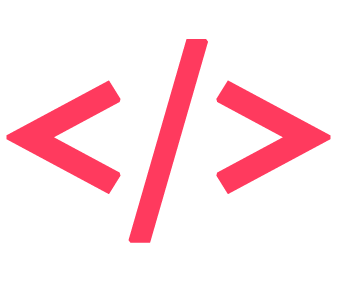
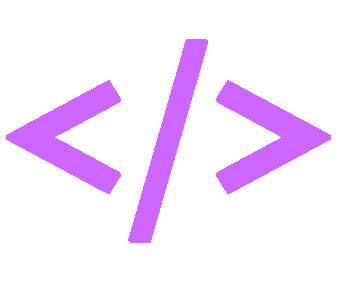
To purple

Changed region(s): [[0.6158, 0.2656, 0.9677, 0.6492], [0.3519, 0.118, 0.6158, 0.7967], [0.0, 0.2656, 0.3519, 0.6492]]

diff --git a/assets/css/style.css b/assets/css/style.css
@@ -1,1 +1,1 @@
-*{padding:0;margin:0;box-sizing:border-box;font-family:"Archivo"}::selection{background-color:#ff3a5e;color:#fff}ul,ol{list-style:none;margin:0;padding:0}a{text-decoration:none}img{max-width:100%;height:auto;display:block}p,h1,h2,h3,h4,h5,h6{margin:0}button,input{border:0;font-family:"Archivo"}button:focus,input:focus{border:0}body{font-family:"Archivo";background-color:#fff;overflow-x:hidden}html{scroll-behavior:smooth;font-size:62.5%}::-webkit-scrollbar{width:8px}::-webkit-scrollbar-track{background-color:#040405}::-webkit-scrollbar-thumb{background-color:#ff3a5e;border-radius:8px}header{padding:0px 50px;background:#040405;backdrop-filter:blur(24px);-webkit-backdrop-filter:blur(24px);border-bottom:1px solid #101013;z-index:999;width:100%;position:fixed;top:0;left:0}@media screen and (max-width: 992px){header{padding:0px 24px}}header .grid-layout nav{display:flex;justify-content:space-between;align-items:center;flex-wrap:wrap;height:100px;padding:0px 8px}header .grid-layout nav img{width:150px}header .grid-layout nav .nav-list{list-style:none;display:flex}header .grid-layout nav .nav-list li{margin-left:48px}@media screen and (max-width: 992px){header .grid-layout nav .nav-list li{margin-left:0px}}header .grid-layout nav .nav-list li a{color:#d8d8d8;position:relative;font-size:1.8rem}header .grid-layout nav .nav-list li a::after{content:"";position:absolute;width:100%;transform:scaleX(0);height:1px;bottom:-7px;left:0;background:linear-gradient(270deg, #ff3a5e 0%, #17161d 100%);transform-origin:bottom right;transition:transform .5s cubic-bezier(0.86, 0, 0.07, 1)}header .grid-layout nav .nav-list li a:hover::after{transform:scaleX(1);transform-origin:bottom left}header .grid-layout nav .nav-list li a:hover{color:#fff}.mobile-menu{display:none}.mobile-menu div{width:32px;height:1px;background-color:#fff;margin:8px;transition:.4s}.nav-list.active{visibility:initial;transition:1s all ease}@keyframes navLinkFade{from{opacity:0;transform:translateX(100px)}to{opacity:1;transform:translateX(0)}}.mobile-menu.active .line1{transform:rotate(-45deg) translate(-8px, 8px)}.mobile-menu.active .line2{opacity:0}.mobile-menu.active .line3{transform:rotate(45deg) translate(-5px, -5px)}@media screen and (max-width: 992px){body{overflow-x:hidden}.nav-list{text-align:center;position:absolute;top:100px;right:0;width:100vw;height:100vh;z-index:999;background-color:#09090b;flex-direction:column;padding-top:96px;visibility:hidden}header .grid-layout nav .nav-list li{opacity:0;margin-bottom:48px}header .grid-layout nav .nav-list li a{font-size:2.4rem}.mobile-menu{display:block}}#s-home{padding:0px 50px;background-color:#040405;position:relative}@media screen and (max-width: 992px){#s-home{padding:100px 20px 0px 20px}}#s-home .grid-layout #home{display:flex;align-items:center;min-height:90vh;padding:200px 0px;overflow:hidden;width:100%}@media screen and (max-width: 992px){#s-home .grid-layout #home{padding:0px}}#s-home .grid-layout #home #home-container-text{width:100%;flex-direction:column}@media screen and (max-width: 992px){#s-home .grid-layout #home #home-container-text{display:flex;flex-direction:column;align-items:center;width:100%;text-align:center;padding:0px}}#s-home .grid-layout #home #home-container-text h1{color:#fff;max-width:650px;line-height:140%;font-size:4rem;font-weight:500}@media screen and (max-width: 992px){#s-home .grid-layout #home #home-container-text h1{font-size:3.2rem}}#s-home .grid-layout #home #home-container-text h1 span{color:#ff3a5e}#s-home .grid-layout #home #home-container-text p{color:#d8d8d8;font-size:2rem;max-width:600px;margin:40px 0px;font-weight:300;line-height:160%}#s-home .grid-layout #home #home-container-text a{background:#ff3a5e;color:#fff;backdrop-filter:blur(10px);padding:20px 32px;max-width:250px;border-radius:4px;display:flex;justify-content:center;align-items:center;transition:all .4s ease;margin-top:30px;font-size:18px;font-weight:400}#s-home .grid-layout #home #home-container-text a:hover{padding:20px 45px;max-width:270px}#s-home .grid-layout #home #logo{position:absolute;right:-50px;top:50%;transform:translate(0%, -50%)}@media screen and (max-width: 1200px){#s-home .grid-layout #home #logo{display:none}}#s-about{padding:72px 0px;background-color:#040405}@media screen and (max-width: 1200px){#s-about{padding:72px 20px}}#s-about .grid-layout>div{background-color:#09090b;border:2px solid #101013;padding:24px;border-radius:4px;display:flex;justify-content:space-between;align-items:center;height:auto}@media screen and (max-width: 1200px){#s-about .grid-layout>div{flex-wrap:wrap;gap:32px}}#s-about .grid-layout>div #creator-photo{width:47%;background-image:url("../image/foto-Daanrox.jpg");background-repeat:no-repeat;background-position:center;background-size:cover;border-radius:4px;height:500px}@media screen and (max-width: 1200px){#s-about .grid-layout>div #creator-photo{width:100%;height:400px}}@media screen and (max-width: 992px){#s-about .grid-layout>div #creator-photo{height:350px}}@media screen and (max-width: 768px){#s-about .grid-layout>div #creator-photo{height:300px}}#s-about .grid-layout>div #creator-photo h3{color:#040405;background-color:#fff;padding:8px;border-radius:16px;width:180px;text-align:center;font-size:1.4rem;font-weight:500;margin:16px}#s-about .grid-layout>div div:nth-child(2){width:49%}@media screen and (max-width: 1200px){#s-about .grid-layout>div div:nth-child(2){width:100%}}#s-about .grid-layout>div div:nth-child(2) h2{font-size:4rem;font-weight:500;margin:16px 0px;color:#fff}@media screen and (max-width: 992px){#s-about .grid-layout>div div:nth-child(2) h2{font-size:3.2rem}}#s-about .grid-layout>div div:nth-child(2) h3{font-size:1.8rem;font-weight:300;margin-bottom:16px;color:#fff}#s-about .grid-layout>div div:nth-child(2) h4{font-size:2rem;font-weight:500;color:#ff3a5e}#s-about .grid-layout>div div:nth-child(2) p{font-size:1.8rem;color:#d8d8d8;line-height:160%;margin:32px 0px 48px 0px}#s-about .grid-layout>div div:nth-child(2) nav ul{display:flex;align-items:center;gap:16px}@media screen and (max-width: 1200px){#s-about .grid-layout>div div:nth-child(2) nav ul{flex-wrap:wrap}}#s-about .grid-layout>div div:nth-child(2) nav ul a{background-color:#040405;border:2px solid #101013;border-radius:6px;padding:16px}@media screen and (max-width: 1200px){#s-about .grid-layout>div div:nth-child(2) nav ul a img{width:40px}}#s-about .grid-layout>div div:nth-child(2) nav ul a:hover{border-color:#ff3a5e}#s-experience{background-color:#09090b;color:#fff;padding:96px 48px}@media screen and (max-width: 992px){#s-experience{padding:48px 24px}}#s-experience .grid-layout h2{padding-bottom:24px;color:#fff;font-size:4rem;font-weight:500}#s-experience .grid-layout h2 span{color:#ff3a5e}#s-experience .grid-layout #experience{margin-top:32px;display:flex;gap:40px}@media screen and (max-width: 1200px){#s-experience .grid-layout #experience{flex-wrap:wrap}}#s-experience .grid-layout #experience .option-experience{display:flex;width:25%;flex-direction:column}@media screen and (max-width: 1200px){#s-experience .grid-layout #experience .option-experience{width:100%}}#s-experience .grid-layout #experience .option-experience .activeExperience{border-left:4px solid #ff3a5e;color:#ff3a5e}#s-experience .grid-layout #experience .option-experience .activeExperience h3{font-weight:600}#s-experience .grid-layout #experience .option-experience>div{padding:24px 32px;text-align:left;background-color:#040405;border-left:4px solid #040405}#s-experience .grid-layout #experience .option-experience>div:hover{cursor:pointer}#s-experience .grid-layout #experience .option-experience>div h3{font-size:1.8rem;font-weight:400}#s-experience .grid-layout #experience .text-experience{width:75%}@media screen and (max-width: 1200px){#s-experience .grid-layout #experience .text-experience{width:100%}}#s-experience .grid-layout #experience .text-experience>div{display:flex;align-items:center;justify-content:space-between}@media screen and (max-width: 1200px){#s-experience .grid-layout #experience .text-experience>div{flex-wrap:wrap;gap:32px}}#s-experience .grid-layout #experience .text-experience>div h4{font-size:2.4rem;font-weight:400}#s-experience .grid-layout #experience .text-experience>div p{font-size:1.8rem;color:#d8d8d8}#s-experience .grid-layout #experience .text-experience h5{font-size:2rem;margin:32px 0px;font-weight:500;color:#ff3a5e}#s-experience .grid-layout #experience .text-experience p{font-size:2rem;line-height:160%;color:#d8d8d8;font-weight:400}#s-projects{padding:96px 48px;text-align:center;background-color:#040405}@media screen and (max-width: 992px){#s-projects{padding:48px 24px}}#s-projects .grid-layout h2{padding-bottom:24px;color:#fff;font-size:4rem;font-weight:500}#s-projects .grid-layout h2 span{color:#ff3a5e}#s-projects .grid-layout #projects{margin:24px 0px;display:flex;justify-content:space-between;align-items:center;flex-wrap:wrap;text-align:left}#s-projects .grid-layout #projects .teslabank{border:1px solid #ff3a5e}#s-projects .grid-layout #projects .teslabank:hover{border:1px solid #ff3a5e}#s-projects .grid-layout #projects .naped{border:1px solid #00a3ff}#s-projects .grid-layout #projects .naped:hover{border:1px solid #00a3ff}#s-projects .grid-layout #projects .efront{border:1px solid #a6fb98}#s-projects .grid-layout #projects .efront:hover{border:1px solid #a6fb98}#s-projects .grid-layout #projects>article{background-color:#09090b;height:auto;padding:32px;margin:8px;flex-basis:calc(33% - 20px);flex-grow:1;border:1px solid #040405;transition:1s all ease;height:auto}#s-projects .grid-layout #projects>article:hover{border:1px solid #ff3a5e}@media screen and (max-width: 1200px){#s-projects .grid-layout #projects>article{flex-basis:calc(50% - 20px)}}@media screen and (max-width: 768px){#s-projects .grid-layout #projects>article{flex-basis:calc(100% - 20px)}}#s-projects .grid-layout #projects>article h3{color:#fff;font-size:2.4rem;font-weight:500}#s-projects .grid-layout #projects>article p{line-height:24px;margin:24px 0px;color:#d8d8d8;line-height:3.2rem;font-size:1.8rem}#s-projects .grid-layout #teslabank{color:#e51d37}#s-projects .grid-layout #teslabank::after{background:linear-gradient(270deg, #e51d37 0%, #17161d 100%)}#s-projects .grid-layout #naped{color:#00a3ff}#s-projects .grid-layout #naped::after{background:linear-gradient(270deg, #00a3ff 0%, #17161d 100%)}#s-projects .grid-layout #efront{color:#a6fb98}#s-projects .grid-layout #efront::after{background:linear-gradient(270deg, #a6fb98 0%, #17161d 100%)}#s-projects .grid-layout a{color:#ff3a5e;position:relative;font-size:2rem;font-weight:400}#s-projects .grid-layout a::after{content:"";position:absolute;width:100%;transform:scaleX(0);height:1px;bottom:-7px;left:0;background:linear-gradient(270deg, #ff3a5e 0%, #17161d 100%);transform-origin:bottom right;transition:transform .5s cubic-bezier(0.86, 0, 0.07, 1)}#s-projects .grid-layout a:hover::after{transform:scaleX(1);transform-origin:bottom left}#s-projects .grid-layout a::after{content:"";position:absolute;width:100%;transform:scaleX(0);height:1px;bottom:-7px;left:0;transform-origin:bottom right;transition:transform .5s cubic-bezier(0.86, 0, 0.07, 1)}#s-projects .grid-layout a:hover::after{transform:scaleX(1);transform-origin:bottom left}#s-services{padding:96px 48px;background-color:#09090b}@media screen and (max-width: 992px){#s-services{padding:48px 24px}}#s-services .grid-layout h2{text-align:center;padding-bottom:24px;color:#fff;font-size:4rem;font-weight:500}#s-services .grid-layout h2 span{color:#ff3a5e}#s-services .grid-layout #services{display:flex;height:auto;flex-wrap:wrap;margin:24px 0px}#s-services .grid-layout #services article{background-color:#040405;height:auto;padding:32px;margin:8px;flex-basis:calc(33% - 20px);flex-grow:1;border:1px solid #040405;transition:1s all ease;border:1px solid #101013;border-radius:4px}#s-services .grid-layout #services article:hover{border:1px solid #ff3a5e}@media screen and (max-width: 1200px){#s-services .grid-layout #services article{flex-basis:calc(50% - 20px)}}@media screen and (max-width: 768px){#s-services .grid-layout #services article{flex-basis:calc(100% - 20px)}}#s-services .grid-layout #services article div{height:90px}#s-services .grid-layout #services article div img{width:70px}#s-services .grid-layout #services article h3{padding:24px 0px;color:#fff;font-size:2.4rem;font-weight:500}#s-services .grid-layout #services article p{line-height:3.2rem;color:#d8d8d8;font-size:1.8rem}#s-skills{padding:96px 48px;background-color:#040405}@media screen and (max-width: 992px){#s-skills{padding:48px 24px}}#s-skills .grid-layout #skills{display:flex;justify-content:space-between;align-items:center;flex-wrap:wrap;height:auto;padding:8px}#s-skills .grid-layout #skills div,#s-skills .grid-layout #skills article{width:50%}@media screen and (max-width: 1200px){#s-skills .grid-layout #skills div,#s-skills .grid-layout #skills article{width:100%}}#s-skills .grid-layout #skills #skills-text{min-height:400px}@media screen and (max-width: 768px){#s-skills .grid-layout #skills #skills-text{min-height:auto}}#s-skills .grid-layout #skills #skills-text h2{margin-bottom:32px;color:#fff;font-size:3.2rem;font-weight:500}#s-skills .grid-layout #skills #skills-text h2 span{color:#ff3a5e}#s-skills .grid-layout #skills #skills-text .changeDescription{transition:2s all ease}@media screen and (max-width: 768px){#s-skills .grid-layout #skills #skills-text .changeDescription{display:none}}#s-skills .grid-layout #skills #skills-text p{max-width:500px;line-height:3.2rem;color:#d8d8d8;font-size:1.8rem}#s-skills .grid-layout #skills #skills-cards{display:flex;flex-wrap:wrap;gap:24px}@media screen and (max-width: 1200px){#s-skills .grid-layout #skills #skills-cards{margin-top:48px}}#s-skills .grid-layout #skills #skills-cards article{display:flex;justify-content:space-between;align-items:center;flex-wrap:wrap;justify-content:center;width:20%;flex-grow:1;height:130px;background-color:#09090b;position:relative;border:1px solid #101013;border-radius:4px;transition:1s all ease}#s-skills .grid-layout #skills #skills-cards article:hover{border:1px solid #ff3a5e}@media screen and (max-width: 768px){#s-skills .grid-layout #skills #skills-cards article{width:40%}}footer{width:100%;height:auto;background-color:#09090b;color:#fff;padding:24px 0px}footer .grid-layout{display:flex;align-items:center;justify-content:space-between;width:100%}footer p{font-size:1.8rem}footer p a{font-weight:500;color:#ff3a5e}footer img{width:32px}footer div{display:flex;align-items:center;gap:16px}@media screen and (max-width: 1200px){footer .grid-layout{text-align:center;justify-content:center;flex-wrap:wrap;gap:48px}footer .grid-layout div{display:none}}.typewriter:after{content:"|";margin-left:8px;opacity:1;animation:blink 1s infinite;color:#ff3a5e}@keyframes blink{0%,100%{opacity:1}50%{opacity:0}}.grid-layout{max-width:1140px;margin:0 auto}/*# sourceMappingURL=style.css.map */
+*{padding:0;margin:0;box-sizing:border-box;font-family:"Archivo"}::selection{background-color:hsl(287, 100%, 62%);color:#fff}ul,ol{list-style:none;margin:0;padding:0}a{text-decoration:none}img{max-width:100%;height:auto;display:block}p,h1,h2,h3,h4,h5,h6{margin:0}button,input{border:0;font-family:"Archivo"}button:focus,input:focus{border:0}body{font-family:"Archivo";background-color:#fff;overflow-x:hidden}html{scroll-behavior:smooth;font-size:62.5%}::-webkit-scrollbar{width:8px}::-webkit-scrollbar-track{background-color:#040405}::-webkit-scrollbar-thumb{background-color:hsl(287, 100%, 62%);border-radius:8px}header{padding:0px 50px;background:#040405;backdrop-filter:blur(24px);-webkit-backdrop-filter:blur(24px);border-bottom:1px solid #101013;z-index:999;width:100%;position:fixed;top:0;left:0}@media screen and (max-width: 992px){header{padding:0px 24px}}header .grid-layout nav{display:flex;justify-content:space-between;align-items:center;flex-wrap:wrap;height:100px;padding:0px 8px}header .grid-layout nav img{width:150px}header .grid-layout nav .nav-list{list-style:none;display:flex}header .grid-layout nav .nav-list li{margin-left:48px}@media screen and (max-width: 992px){header .grid-layout nav .nav-list li{margin-left:0px}}header .grid-layout nav .nav-list li a{color:#d8d8d8;position:relative;font-size:1.8rem}header .grid-layout nav .nav-list li a::after{content:"";position:absolute;width:100%;transform:scaleX(0);height:1px;bottom:-7px;left:0;background:linear-gradient(270deg, hsl(287, 100%, 62%) 0%, #17161d 100%);transform-origin:bottom right;transition:transform .5s cubic-bezier(0.86, 0, 0.07, 1)}header .grid-layout nav .nav-list li a:hover::after{transform:scaleX(1);transform-origin:bottom left}header .grid-layout nav .nav-list li a:hover{color:#fff}.mobile-menu{display:none}.mobile-menu div{width:32px;height:1px;background-color:#fff;margin:8px;transition:.4s}.nav-list.active{visibility:initial;transition:1s all ease}@keyframes navLinkFade{from{opacity:0;transform:translateX(100px)}to{opacity:1;transform:translateX(0)}}.mobile-menu.active .line1{transform:rotate(-45deg) translate(-8px, 8px)}.mobile-menu.active .line2{opacity:0}.mobile-menu.active .line3{transform:rotate(45deg) translate(-5px, -5px)}@media screen and (max-width: 992px){body{overflow-x:hidden}.nav-list{text-align:center;position:absolute;top:100px;right:0;width:100vw;height:100vh;z-index:999;background-color:#09090b;flex-direction:column;padding-top:96px;visibility:hidden}header .grid-layout nav .nav-list li{opacity:0;margin-bottom:48px}header .grid-layout nav .nav-list li a{font-size:2.4rem}.mobile-menu{display:block}}#s-home{padding:0px 50px;background-color:#040405;position:relative}@media screen and (max-width: 992px){#s-home{padding:100px 20px 0px 20px}}#s-home .grid-layout #home{display:flex;align-items:center;min-height:90vh;padding:200px 0px;overflow:hidden;width:100%}@media screen and (max-width: 992px){#s-home .grid-layout #home{padding:0px}}#s-home .grid-layout #home #home-container-text{width:100%;flex-direction:column}@media screen and (max-width: 992px){#s-home .grid-layout #home #home-container-text{display:flex;flex-direction:column;align-items:center;width:100%;text-align:center;padding:0px}}#s-home .grid-layout #home #home-container-text h1{color:#fff;max-width:650px;line-height:140%;font-size:4rem;font-weight:500}@media screen and (max-width: 992px){#s-home .grid-layout #home #home-container-text h1{font-size:3.2rem}}#s-home .grid-layout #home #home-container-text h1 span{color:hsl(287, 100%, 62%)}#s-home .grid-layout #home #home-container-text p{color:#d8d8d8;font-size:2rem;max-width:600px;margin:40px 0px;font-weight:300;line-height:160%}#s-home .grid-layout #home #home-container-text a{background:hsl(287, 100%, 62%);color:#fff;backdrop-filter:blur(10px);padding:20px 32px;max-width:250px;border-radius:4px;display:flex;justify-content:center;align-items:center;transition:all .4s ease;margin-top:30px;font-size:18px;font-weight:400}#s-home .grid-layout #home #home-container-text a:hover{padding:20px 45px;max-width:270px}#s-home .grid-layout #home #logo{position:absolute;right:-50px;top:50%;transform:translate(0%, -50%)}@media screen and (max-width: 1200px){#s-home .grid-layout #home #logo{display:none}}#s-about{padding:72px 0px;background-color:#040405}@media screen and (max-width: 1200px){#s-about{padding:72px 20px}}#s-about .grid-layout>div{background-color:#09090b;border:2px solid #101013;padding:24px;border-radius:4px;display:flex;justify-content:space-between;align-items:center;height:auto}@media screen and (max-width: 1200px){#s-about .grid-layout>div{flex-wrap:wrap;gap:32px}}#s-about .grid-layout>div #creator-photo{width:47%;background-image:url("../image/foto-Daanrox.jpg");background-repeat:no-repeat;background-position:center;background-size:cover;border-radius:4px;height:500px}@media screen and (max-width: 1200px){#s-about .grid-layout>div #creator-photo{width:100%;height:400px}}@media screen and (max-width: 992px){#s-about .grid-layout>div #creator-photo{height:350px}}@media screen and (max-width: 768px){#s-about .grid-layout>div #creator-photo{height:300px}}#s-about .grid-layout>div #creator-photo h3{color:#040405;background-color:#fff;padding:8px;border-radius:16px;width:180px;text-align:center;font-size:1.4rem;font-weight:500;margin:16px}#s-about .grid-layout>div div:nth-child(2){width:49%}@media screen and (max-width: 1200px){#s-about .grid-layout>div div:nth-child(2){width:100%}}#s-about .grid-layout>div div:nth-child(2) h2{font-size:4rem;font-weight:500;margin:16px 0px;color:#fff}@media screen and (max-width: 992px){#s-about .grid-layout>div div:nth-child(2) h2{font-size:3.2rem}}#s-about .grid-layout>div div:nth-child(2) h3{font-size:1.8rem;font-weight:300;margin-bottom:16px;color:#fff}#s-about .grid-layout>div div:nth-child(2) h4{font-size:2rem;font-weight:500;color:hsl(287, 100%, 62%)}#s-about .grid-layout>div div:nth-child(2) p{font-size:1.8rem;color:#d8d8d8;line-height:160%;margin:32px 0px 48px 0px}#s-about .grid-layout>div div:nth-child(2) nav ul{display:flex;align-items:center;gap:16px}@media screen and (max-width: 1200px){#s-about .grid-layout>div div:nth-child(2) nav ul{flex-wrap:wrap}}#s-about .grid-layout>div div:nth-child(2) nav ul a{background-color:#040405;border:2px solid #101013;border-radius:6px;padding:16px}@media screen and (max-width: 1200px){#s-about .grid-layout>div div:nth-child(2) nav ul a img{width:40px}}#s-about .grid-layout>div div:nth-child(2) nav ul a:hover{border-color:hsl(287, 100%, 62%)}#s-experience{background-color:#09090b;color:#fff;padding:96px 48px}@media screen and (max-width: 992px){#s-experience{padding:48px 24px}}#s-experience .grid-layout h2{padding-bottom:24px;color:#fff;font-size:4rem;font-weight:500}#s-experience .grid-layout h2 span{color:hsl(287, 100%, 62%)}#s-experience .grid-layout #experience{margin-top:32px;display:flex;gap:40px}@media screen and (max-width: 1200px){#s-experience .grid-layout #experience{flex-wrap:wrap}}#s-experience .grid-layout #experience .option-experience{display:flex;width:25%;flex-direction:column}@media screen and (max-width: 1200px){#s-experience .grid-layout #experience .option-experience{width:100%}}#s-experience .grid-layout #experience .option-experience .activeExperience{border-left:4px solid hsl(287, 100%, 62%);color:hsl(287, 100%, 62%)}#s-experience .grid-layout #experience .option-experience .activeExperience h3{font-weight:600}#s-experience .grid-layout #experience .option-experience>div{padding:24px 32px;text-align:left;background-color:#040405;border-left:4px solid #040405}#s-experience .grid-layout #experience .option-experience>div:hover{cursor:pointer}#s-experience .grid-layout #experience .option-experience>div h3{font-size:1.8rem;font-weight:400}#s-experience .grid-layout #experience .text-experience{width:75%}@media screen and (max-width: 1200px){#s-experience .grid-layout #experience .text-experience{width:100%}}#s-experience .grid-layout #experience .text-experience>div{display:flex;align-items:center;justify-content:space-between}@media screen and (max-width: 1200px){#s-experience .grid-layout #experience .text-experience>div{flex-wrap:wrap;gap:32px}}#s-experience .grid-layout #experience .text-experience>div h4{font-size:2.4rem;font-weight:400}#s-experience .grid-layout #experience .text-experience>div p{font-size:1.8rem;color:#d8d8d8}#s-experience .grid-layout #experience .text-experience h5{font-size:2rem;margin:32px 0px;font-weight:500;color:hsl(287, 100%, 62%)}#s-experience .grid-layout #experience .text-experience p{font-size:2rem;line-height:160%;color:#d8d8d8;font-weight:400}#s-projects{padding:96px 48px;text-align:center;background-color:#040405}@media screen and (max-width: 992px){#s-projects{padding:48px 24px}}#s-projects .grid-layout h2{padding-bottom:24px;color:#fff;font-size:4rem;font-weight:500}#s-projects .grid-layout h2 span{color:hsl(287, 100%, 62%)}#s-projects .grid-layout #projects{margin:24px 0px;display:flex;justify-content:space-between;align-items:center;flex-wrap:wrap;text-align:left}#s-projects .grid-layout #projects .teslabank{border:1px solid hsl(287, 100%, 62%)}#s-projects .grid-layout #projects .teslabank:hover{border:1px solid hsl(287, 100%, 62%)}#s-projects .grid-layout #projects .naped{border:1px solid hsl(287, 100%, 62%)}#s-projects .grid-layout #projects .naped:hover{border:1px solid hsl(287, 100%, 62%)}#s-projects .grid-layout #projects .efront{border:1px solid hsl(287, 100%, 62%)}#s-projects .grid-layout #projects .efront:hover{border:1px solid hsl(287, 100%, 62%)}#s-projects .grid-layout #projects>article{background-color:#09090b;height:auto;padding:32px;margin:8px;flex-basis:calc(33% - 20px);flex-grow:1;border:1px solid #040405;transition:1s all ease;height:auto}#s-projects .grid-layout #projects>article:hover{border:1px solid hsl(287, 100%, 62%)}@media screen and (max-width: 1200px){#s-projects .grid-layout #projects>article{flex-basis:calc(50% - 20px)}}@media screen and (max-width: 768px){#s-projects .grid-layout #projects>article{flex-basis:calc(100% - 20px)}}#s-projects .grid-layout #projects>article h3{color:#fff;font-size:2.4rem;font-weight:500}#s-projects .grid-layout #projects>article p{line-height:24px;margin:24px 0px;color:#d8d8d8;line-height:3.2rem;font-size:1.8rem}#s-projects .grid-layout #teslabank{color:hsl(287, 100%, 62%)}#s-projects .grid-layout #teslabank::after{background:linear-gradient(270deg, hsl(287, 100%, 62%) 0%, #17161d 100%)}#s-projects .grid-layout #naped{color:hsl(287, 100%, 62%)}#s-projects .grid-layout #naped::after{background:linear-gradient(270deg, hsl(287, 100%, 62%) 0%, #17161d 100%)}#s-projects .grid-layout #efront{color:hsl(287, 100%, 62%)}#s-projects .grid-layout #efront::after{background:linear-gradient(270deg, hsl(287, 100%, 62%) 0%, #17161d 100%)}#s-projects .grid-layout a{color:hsl(287, 100%, 62%);position:relative;font-size:2rem;font-weight:400}#s-projects .grid-layout a::after{content:"";position:absolute;width:100%;transform:scaleX(0);height:1px;bottom:-7px;left:0;background:linear-gradient(270deg, hsl(287, 100%, 62%) 0%, #17161d 100%);transform-origin:bottom right;transition:transform .5s cubic-bezier(0.86, 0, 0.07, 1)}#s-projects .grid-layout a:hover::after{transform:scaleX(1);transform-origin:bottom left}#s-projects .grid-layout a::after{content:"";position:absolute;width:100%;transform:scaleX(0);height:1px;bottom:-7px;left:0;transform-origin:bottom right;transition:transform .5s cubic-bezier(0.86, 0, 0.07, 1)}#s-projects .grid-layout a:hover::after{transform:scaleX(1);transform-origin:bottom left}#s-services{padding:96px 48px;background-color:#09090b}@media screen and (max-width: 992px){#s-services{padding:48px 24px}}#s-services .grid-layout h2{text-align:center;padding-bottom:24px;color:#fff;font-size:4rem;font-weight:500}#s-services .grid-layout h2 span{color:hsl(287, 100%, 62%)}#s-services .grid-layout #services{display:flex;height:auto;flex-wrap:wrap;margin:24px 0px}#s-services .grid-layout #services article{background-color:#040405;height:auto;padding:32px;margin:8px;flex-basis:calc(33% - 20px);flex-grow:1;border:1px solid #040405;transition:1s all ease;border:1px solid #101013;border-radius:4px}#s-services .grid-layout #services article:hover{border:1px solid hsl(287, 100%, 62%)}@media screen and (max-width: 1200px){#s-services .grid-layout #services article{flex-basis:calc(50% - 20px)}}@media screen and (max-width: 768px){#s-services .grid-layout #services article{flex-basis:calc(100% - 20px)}}#s-services .grid-layout #services article div{height:90px}#s-services .grid-layout #services article div img{width:70px}#s-services .grid-layout #services article h3{padding:24px 0px;color:#fff;font-size:2.4rem;font-weight:500}#s-services .grid-layout #services article p{line-height:3.2rem;color:#d8d8d8;font-size:1.8rem}#s-skills{padding:96px 48px;background-color:#040405}@media screen and (max-width: 992px){#s-skills{padding:48px 24px}}#s-skills .grid-layout #skills{display:flex;justify-content:space-between;align-items:center;flex-wrap:wrap;height:auto;padding:8px}#s-skills .grid-layout #skills div,#s-skills .grid-layout #skills article{width:50%}@media screen and (max-width: 1200px){#s-skills .grid-layout #skills div,#s-skills .grid-layout #skills article{width:100%}}#s-skills .grid-layout #skills #skills-text{min-height:400px}@media screen and (max-width: 768px){#s-skills .grid-layout #skills #skills-text{min-height:auto}}#s-skills .grid-layout #skills #skills-text h2{margin-bottom:32px;color:#fff;font-size:3.2rem;font-weight:500}#s-skills .grid-layout #skills #skills-text h2 span{color:hsl(287, 100%, 62%)}#s-skills .grid-layout #skills #skills-text .changeDescription{transition:2s all ease}@media screen and (max-width: 768px){#s-skills .grid-layout #skills #skills-text .changeDescription{display:none}}#s-skills .grid-layout #skills #skills-text p{max-width:500px;line-height:3.2rem;color:#d8d8d8;font-size:1.8rem}#s-skills .grid-layout #skills #skills-cards{display:flex;flex-wrap:wrap;gap:24px}@media screen and (max-width: 1200px){#s-skills .grid-layout #skills #skills-cards{margin-top:48px}}#s-skills .grid-layout #skills #skills-cards article{display:flex;justify-content:space-between;align-items:center;flex-wrap:wrap;justify-content:center;width:20%;flex-grow:1;height:130px;background-color:#09090b;position:relative;border:1px solid #101013;border-radius:4px;transition:1s all ease}#s-skills .grid-layout #skills #skills-cards article:hover{border:1px solid hsl(287, 100%, 62%)}@media screen and (max-width: 768px){#s-skills .grid-layout #skills #skills-cards article{width:40%}}footer{width:100%;height:auto;background-color:#09090b;color:#fff;padding:24px 0px}footer .grid-layout{display:flex;align-items:center;justify-content:space-between;width:100%}footer p{font-size:1.8rem}footer p a{font-weight:500;color:hsl(287, 100%, 62%)}footer img{width:32px}footer div{display:flex;align-items:center;gap:16px}@media screen and (max-width: 1200px){footer .grid-layout{text-align:center;justify-content:center;flex-wrap:wrap;gap:48px}footer .grid-layout div{display:none}}.typewriter:after{content:"|";margin-left:8px;opacity:1;animation:blink 1s infinite;color:hsl(287, 100%, 62%)}@keyframes blink{0%,100%{opacity:1}50%{opacity:0}}.grid-layout{max-width:1140px;margin:0 auto}/*# sourceMappingURL=style.css.map */

diff --git a/index.html b/index.html
@@ -9,7 +9,7 @@
     />
     <meta
       name="keywords"
-      content="sites, web, desenvolvimento, frontend, Daanrox, ui designer, programador, Daanrox Site, front-end, designer, ui, iuri, freelancer, freela, website, portfólio, Daniel Nicolau da Silva Junior, Daniel Nicolau, Daan Rox"
+      content="sites, filtros instagram, gifs instagram, criador de filtros, design, front end, aluno kenzie, programador web, Daanielrox, Danrox, Daanrox, Daan Rox, Daniel Nicolau da Silva Junior, Rox, daanrox games, daanrox web, daanrox programador, daanrox rox, daanrox design, daanrox filtros, daanrox site, daanrox github, daanrox portfolio,web, desenvolvimento, frontend, Daanrox, ui designer, programador, Daanrox Site, front-end, designer, ui, iuri, freelancer, freela, website, portfólio, Daniel Nicolau da Silva Junior, Daniel Nicolau, Daan Rox"
     />
     <meta name="viewport" content="width=device-width, initial-scale=1.0" />
     <meta name="theme-color" content="#ff3a5e" />
@@ -19,8 +19,8 @@
       property="og:image"
       content="https://daanrox.com/assets/image/preview.png"
     />
-    <meta property="og:title" content="Portfólio // Daanrox" />
-    <meta property="og:description" content="Portfólio // Daanrox" />
+    <meta property="og:title" content="< Daanrox />" />
+    <meta property="og:description" content="< Daanrox />" />
     <link rel="preconnect" href="https://fonts.googleapis.com" />
     <link rel="preconnect" href="https://fonts.gstatic.com" crossorigin />
     <link
@@ -33,11 +33,11 @@
       href="assets/image/logo-page.png"
       type="image/x-icon"
     />
-    <link rel="icon" href="assets/image/logo-page.svg" />
-    <link rel="apple-touch-icon" href="assets/image/logo-page.svg" />
-    <link rel="canonical" href="https://Daanrox.com/" />
+    <link rel="icon" href="assets/image/logo-page.png" />
+    <link rel="apple-touch-icon" href="assets/image/logo-page.png" />
+    <link rel="canonical" href="https://daanrox.com/" />
     <script src="assets/js/svg-inject.min.js"></script>
-    <title>Portfólio // Daanrox</title>
+    <title>< Daanrox /></title>
   </head>
 
   <body>
@@ -99,7 +99,7 @@
             </div>
 
             <img
-              src="assets/image/logo.svg"
+              src="assets/image/shape-body.png"
               alt="ícone Daanrox"
               onload="SVGInject(this)"
               id="logo"
@@ -220,13 +220,13 @@
               class="option-experience intervalCardReveal"
               id="experience-company"
             >
-              <div class="company digitalhouse activeExperience">
+              <div class="company metaspark activeExperience">
                 <h3>Meta Spark</h3>
               </div>
-              <div class="company zuplae">
+              <div class="company takepic">
                 <h3>TakePic</h3>
               </div>
-              <div class="company contweb">
+              <div class="company painhas">
                 <h3>Painhas</h3>
               </div>
               <div class="company codigofontetv">
@@ -242,11 +242,11 @@
               </div>
               <h5 class="companyExperience">Meta Spark</h5>
               <p class="changeExperience">
-                Trabalhei como criador de Filtros para as plataformas Instagram e Facebook.
-                Com vários filtros criados na plataforma, alcancei mais de 30 Bilhões de impressões
-                com filtros no SparkAR, sempre visando as boas práticas e qualidade da imagem.
-                <br>
-                Criação de objetos 3D, Maquiagens e Luts.
+                Trabalhei como criador de filtros para o Instagram. Nessa função, 
+                fui responsável por desenvolver e implementar conceitos de filtros para imagens e vídeos que fossem criativos, 
+                atraentes e relevantes para o público do Instagram. Utilizei habilidades avançadas em programas de design, bem como 
+                conhecimentos técnicos em linguagens de programação, como Spark AR e JavaScript. Para garantir que os filtros
+                atendessem aos objetivos do cliente e melhorassem a experiência do usuário.
               </p>
             </div>
           </div>

diff --git a/assets/scss/_projects.scss b/assets/scss/_projects.scss
@@ -14,21 +14,21 @@
       @include flexbox-between;
       text-align: left;
       .teslabank {
-        border: 1px solid #ff3a5e;
+        border: 1px solid hsl(287, 100%, 62%);
         &:hover {
-          border: 1px solid #ff3a5e;
+          border: 1px solid hsl(287, 100%, 62%);
         }
       }
       .naped {
-        border: 1px solid #00a3ff;
+        border: 1px solid hsl(287, 100%, 62%);
         &:hover {
-          border: 1px solid #00a3ff;
+          border: 1px solid hsl(287, 100%, 62%);
         }
       }
       .efront {
-        border: 1px solid #a6fb98;
+        border: 1px solid hsl(287, 100%, 62%);
         &:hover {
-          border: 1px solid #a6fb98;
+          border: 1px solid hsl(287, 100%, 62%);
         }
       }
       > article {
@@ -55,26 +55,26 @@
       }
     }
     #teslabank {
-      color: #e51d37;
+      color: hsl(287, 100%, 62%);
 
       &::after {
-        background: linear-gradient(270deg, #e51d37 0%, #17161d 100%);
+        background: linear-gradient(270deg, hsl(287, 100%, 62%) 0%, #17161d 100%);
       }
     }
 
     #naped {
-      color: #00a3ff;
+      color: hsl(287, 100%, 62%);
 
       &::after {
-        background: linear-gradient(270deg, #00a3ff 0%, #17161d 100%);
+        background: linear-gradient(270deg, hsl(287, 100%, 62%) 0%, #17161d 100%);
       }
     }
 
     #efront {
-      color: #a6fb98;
+      color: hsl(287, 100%, 62%);
 
       &::after {
-        background: linear-gradient(270deg, #a6fb98 0%, #17161d 100%);
+        background: linear-gradient(270deg, hsl(287, 100%, 62%) 0%, #17161d 100%);
       }
     }
 

diff --git a/assets/js/main.js b/assets/js/main.js
@@ -9,7 +9,7 @@ initScrollReveal();
 typeWrite(document.querySelector(".typewriter"));
 
 hoverChangeExperience(
-  ".digitalhouse",
+  ".metaspark",
   `Trabalhei como criador de filtros para o Instagram. Nessa função, 
   fui responsável por desenvolver e implementar conceitos de filtros para imagens e vídeos que fossem criativos, 
   atraentes e relevantes para o público do Instagram. Utilizei habilidades avançadas em programas de design, bem como 
@@ -21,7 +21,7 @@ hoverChangeExperience(
 );
 
 hoverChangeExperience(
-  ".zuplae",
+  ".takepic",
   `Trabalho gerenciando uma equipe de editores de fotografia, garantindo a entrega de imagens de alta 
   qualidade dentro dos prazos estabelecidos. Desenvolvendo e implementando processos eficientes de edição de fotografia, 
   aumentando a produtividade e eficiência da equipe. Colaborando com outros departamentos para garantir que as imagens 
@@ -42,7 +42,7 @@ hoverChangeExperience(
 );
 
 hoverChangeExperience(
-  ".contweb",
+  ".painhas",
   `Trabalhei como Técnico de Transmissão em uma empresa de mídia, onde fui responsável por garantir que o 
   equipamento de transmissão ao vivo fosse configurado e operado de forma adequada, permitindo que os eventos fossem transmitidos 
   com qualidade e sem interrupções, a fim de proporcionar uma experiência positiva aos espectadores.`,

diff --git a/assets/scss/_variables.scss b/assets/scss/_variables.scss
@@ -1,6 +1,6 @@
 $font-main: "Archivo";
 
-$color-main: #ff3a5e;
+$color-main: hsl(287, 100%, 62%);
 
 $color-white: #fff;
 $color-gray: #d8d8d8;
@@ -81,7 +81,7 @@ $gap-9: 128px;
     height: 1px;
     bottom: -7px;
     left: 0;
-    background: linear-gradient(270deg, #ff3a5e 0%, #17161d 100%);
+    background: linear-gradient(270deg, hsl(287, 100%, 62%) 0%, #17161d 100%);
     transform-origin: bottom right;
     transition: transform 0.5s cubic-bezier(0.86, 0, 0.07, 1);
   }
@@ -100,7 +100,7 @@ $gap-9: 128px;
   border: 1px solid $bg-main;
   transition: 1s all ease;
   &:hover {
-    border: 1px solid #ff3a5e;
+    border: 1px solid hsl(287, 100%, 62%);
   }
 
   @include responsive-desktop {

diff --git a/assets/scss/_home.scss b/assets/scss/_home.scss
@@ -51,7 +51,7 @@
           line-height: 160%;
         }
         a {
-          background: #ff3a5e;
+          background: hsl(287, 100%, 62%);
           color: $color-white;
           backdrop-filter: blur(10px);
           padding: 20px 32px;
@@ -74,7 +74,7 @@
         position: absolute;
         right: -50px;
         top: 50%;
-        transform: translate(0%, -50%);
+        transform: translate(0%, 50%);
 
         @include responsive-desktop {
           display: none;

diff --git a/assets/scss/_skills.scss b/assets/scss/_skills.scss
@@ -66,7 +66,7 @@
           border-radius: 4px;
           transition: 1s all ease;
           &:hover {
-            border: 1px solid #ff3a5e;
+            border: 1px solid hsl(287, 100%, 62%);
           }
           @include responsive-mobile {
             width: 40%;

diff --git a/assets/scss/_menu.scss b/assets/scss/_menu.scss
@@ -18,7 +18,7 @@ header {
       height: 100px;
       padding: 0px $gap-1;
       img {
-        width: 150px;
+        width: 270px;
       }
       .nav-list {
         list-style: none;
